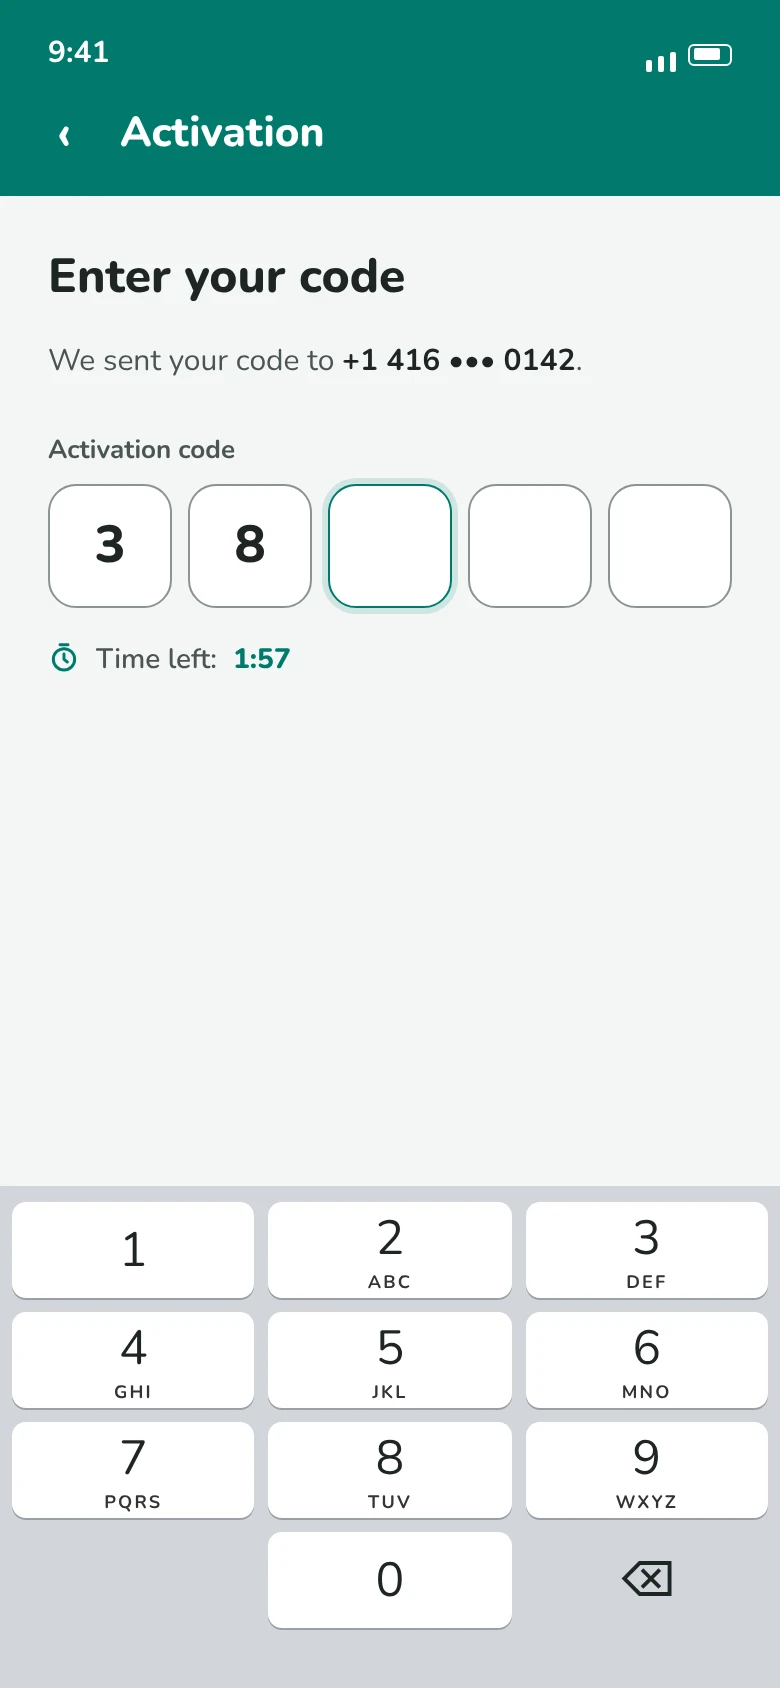
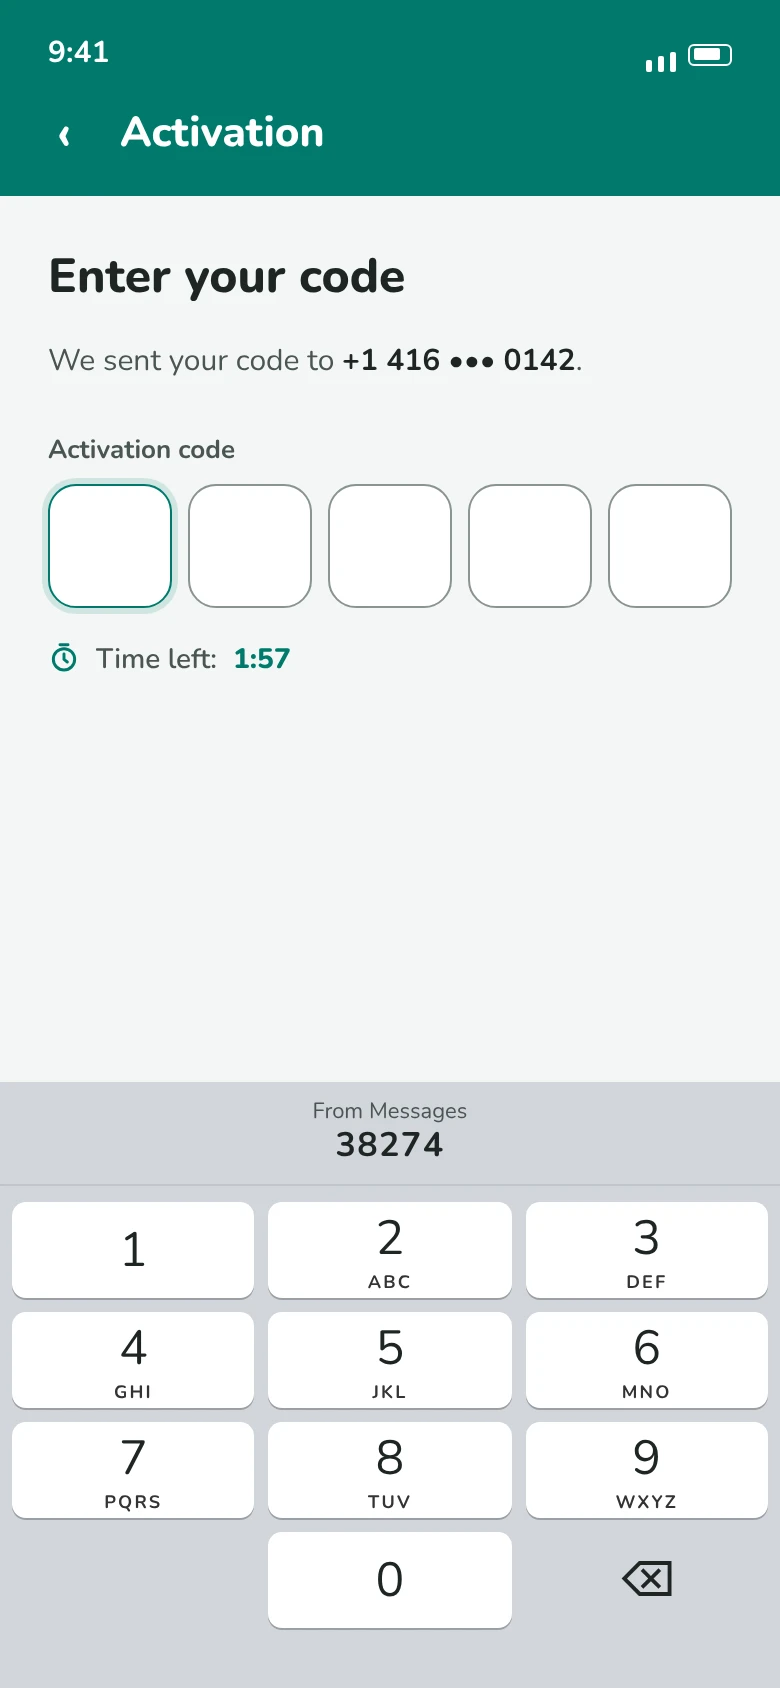
the sms design has improved

diff --git a/otp-authenticator.html b/otp-authenticator.html
@@ -173,7 +173,7 @@
         .pt-box { height: 56px; border-radius: 14px; background: #fff; border: 1.5px solid #8A9492; display: flex; align-items: center; padding: 0 16px; font: inherit; font-size: 18px; font-weight: 700; color: #1D2523; }
         .pt-cc { width: 72px; justify-content: center; }
         .pt-num { flex: 1; min-width: 0; letter-spacing: .04em; }
-        .pt-num:focus { outline: none; border-color: #00796B; box-shadow: 0 0 0 3px rgba(0,121,107,.2); }
+        .pt-num:focus, .pt-num:focus-visible { outline: none; border: 2px solid #00796B; box-shadow: 0 0 0 3px rgba(0,121,107,.22); }
         .pt-hint { font-size: 13px; color: #5F6967; margin: 0; }
         .pt-btn { margin-top: auto; margin-bottom: 24px; height: 54px; border: 0; border-radius: 14px; background: #00796B; color: #fff; font: inherit; font-size: 16px; font-weight: 800; cursor: pointer; }
         .pt-btn:active { background: #005A50; }
@@ -185,12 +185,20 @@
         .pt-err { min-height: 20px; font-size: 13px; font-weight: 700; color: #B3261E; margin: 0 0 4px; }
         .pt-timer { font-size: 14px; color: #4A5553; font-weight: 600; margin: 0; }
         .pt-timer b { color: #00796B; }
-        .pt-keys { margin: auto -18px -24px; background: #D1D5DB; padding: 8px 6px 26px; display: grid; grid-template-columns: repeat(3, 1fr); gap: 7px; }
+        .pt-kbd { margin: auto -24px -24px; background: #D1D5DB; }
+        .pt-suggest-bar { height: 52px; display: flex; align-items: center; justify-content: center; border-bottom: 1px solid #BFC4CB; }
+        .pt-suggest { visibility: hidden; display: flex; flex-direction: column; align-items: center; border: 0; background: transparent; font: inherit; color: #1D2523; cursor: pointer; padding: 4px 24px; border-radius: 8px; line-height: 1.15; }
+        .pt-suggest small { font-size: 11px; color: #4A5553; } .pt-suggest b { font-size: 17px; letter-spacing: .04em; }
+        .pt-suggest.is-in { visibility: visible; }
+        .pt-suggest:active { background: #B9BEC6; }
+        .pt-keys { background: #D1D5DB; padding: 8px 6px 26px; display: grid; grid-template-columns: repeat(3, 1fr); gap: 7px; }
         .pt-keys button { height: 48px; border: 0; border-radius: 7px; background: #fff; box-shadow: 0 1px 0 rgba(0,0,0,.25); font: inherit; font-size: 24px; color: #1D2523; cursor: pointer; }
         .pt-keys button:active { background: #B9BEC6; }
         .pt-keys .pt-k0 { grid-column: 2; }
         .pt-keys .pt-del { background: transparent; box-shadow: none; font-size: 20px; }
-        .pt-sms { position: absolute; left: 10px; right: 10px; top: 52px; z-index: 5; text-align: left; border: 0; border-radius: 20px; padding: 14px 16px; background: rgba(250,250,250,.98); box-shadow: 0 10px 30px rgba(0,0,0,.2); font: inherit; font-size: 15px; color: #1D2523; cursor: pointer; transform: translateY(-160px); transition: transform .35s ease; }
+        .pt-sms { position: absolute; left: 10px; right: 10px; top: 52px; z-index: 5; display: flex; gap: 12px; align-items: flex-start; border-radius: 22px; padding: 12px 14px; background: rgba(245,245,247,.97); box-shadow: 0 10px 30px rgba(0,0,0,.18); font-size: 15px; line-height: 1.3; color: #1D2523; transform: translateY(-170px); transition: transform .35s ease; }
+        .pt-sms__ic { width: 38px; height: 38px; flex: none; border-radius: 9px; background: #34C759; display: grid; place-items: center; }
+        .pt-sms em { font-style: normal; font-size: 13px; color: #5F6967; float: right; }
         .pt-sms.is-in { transform: none; }
         .pt-home { align-items: center; padding-top: 18px; }
         .pt-card { width: 300px; height: 170px; border-radius: 18px; padding: 18px 20px; color: #fff; background: linear-gradient(135deg,#0B8E7E,#00796B 45%,#00594F); display: flex; flex-direction: column; box-shadow: 0 10px 22px rgba(0,89,79,.28); }
@@ -214,7 +222,7 @@
         .pt-ring.is-urgent .pt-arc { stroke: #B3261E; } .pt-ring.is-urgent .pt-track { stroke: #F6DEDC; } .pt-ring.is-urgent .pt-n b, .pt-ring.is-urgent .pt-n small { color: #B3261E; }
         .pt-ring.is-urgent.is-motion { animation: mt-pulse 1s ease-in-out infinite; }
         @media (prefers-reduced-motion: reduce) { .pt-ring.is-urgent.is-motion { animation: mt-beat 1s ease-in-out infinite; } .pt-sms, .pt-arc { transition: none; } }
-        #pt button:focus-visible, #pt input:focus-visible, .pt-restart:focus-visible { outline: 3px solid #1D2523; outline-offset: 2px; }
+        #pt button:focus-visible, .pt-restart:focus-visible { outline: 3px solid #1D2523; outline-offset: 2px; }
         .pt-tabs { display: flex; background: #fff; border-top: 1px solid #E3E9E8; padding: 14px 8px 30px; }
         .pt-tabs span { flex: 1; text-align: center; font-size: 12px; font-weight: 700; color: #5F6967; }
         .pt-tabs span.is-on { color: #00796B; }
@@ -486,7 +494,7 @@
                     <p>People enter their phone number. The app sends an activation code to it by SMS.</p>
                 </article>
                 <article class="card">
-                    <div class="phone"><img src="images/otp-mt-activation.webp" alt="Activation screen with five code boxes, two filled, and a timer showing 1:57 left" loading="lazy" width="390" height="844" /></div>
+                    <div class="phone"><img src="images/otp-mt-activation.webp" alt="Activation screen with five empty code boxes, a timer showing 1:57 left, and the code 38274 from Messages above the keyboard" loading="lazy" width="390" height="844" /></div>
                     <span class="step-num">Step 2</span>
                     <h3>Activate</h3>
                     <p>They type the code from the SMS before the timer runs out.</p>
@@ -692,7 +700,7 @@
                         </div>
                         <!-- 2 Activation -->
                         <div class="pt-scr" data-scr="2">
-                            <button type="button" class="pt-sms" id="pt-sms" aria-label="New SMS from Maple Trust: your activation code is 38274. Tap to fill it in."><b>Messages</b> &middot; now<br /><strong>Maple Trust:</strong> your activation code is 38274</button>
+                            <div class="pt-sms" id="pt-sms" aria-hidden="true"><span class="pt-sms__ic"><svg width="20" height="20" viewBox="0 0 24 24" fill="#fff"><path d="M12 3C6.5 3 2 6.8 2 11.5c0 2.6 1.4 4.9 3.6 6.5L5 21l3.6-2c1.1.3 2.2.5 3.4.5 5.5 0 10-3.8 10-8.5S17.5 3 12 3z"/></svg></span><span><b>Messages</b> <em>now</em><br /><strong>Maple Trust:</strong> your activation code is 38274</span></div>
                             <div class="pt-bar"><div class="pt-status"><span>9:41</span></div><div class="pt-title"><button type="button" class="pt-back" data-go="1" aria-label="Back">&lsaquo;</button>Activation</div></div>
                             <div class="pt-body">
                                 <h3 class="pt-h">Enter your code</h3>
@@ -701,7 +709,10 @@
                                 <div class="pt-digits" id="pt-digits" role="group" aria-labelledby="pt-code-label"></div>
                                 <p class="pt-err" id="pt-err" role="alert"></p>
                                 <p class="pt-timer">Time left: <b id="pt-timer">1:57</b></p>
-                                <div class="pt-keys" id="pt-keys"></div>
+                                <div class="pt-kbd">
+                                    <div class="pt-suggest-bar"><button type="button" class="pt-suggest" id="pt-suggest" aria-label="Fill in code 38274 from Messages"><small>From Messages</small><b>38274</b></button></div>
+                                    <div class="pt-keys" id="pt-keys"></div>
+                                </div>
                             </div>
                         </div>
                         <!-- 3 Home -->
@@ -727,7 +738,7 @@
                 <div class="pt-side">
                     <ol class="pt-steps">
                         <li data-step="1" class="is-on">Tap <b>Confirm</b> to get your SMS.</li>
-                        <li data-step="2">Tap the <b>SMS</b> to fill the code, or type 38274.</li>
+                        <li data-step="2">Tap the code <b>above the keyboard</b> to fill it in, or type 38274.</li>
                         <li data-step="3">Switch passwords, copy a code, and watch the ring turn red and pulse at 5 seconds.</li>
                     </ol>
                     <p class="pt-note">Codes here start at 20 seconds, so you don&rsquo;t wait a full minute.</p>
@@ -846,17 +857,17 @@
         var pt = document.getElementById('pt'); if (!pt) return;
         var CODE = '38274', START = 20, PERIOD = 60, C = 364.4;
         var live = document.getElementById('pt-live'), steps = document.querySelectorAll('.pt-steps li');
-        var digits = document.getElementById('pt-digits'), err = document.getElementById('pt-err'), sms = document.getElementById('pt-sms');
+        var digits = document.getElementById('pt-digits'), err = document.getElementById('pt-err'), sms = document.getElementById('pt-sms'), sug = document.getElementById('pt-suggest');
         var typed = '', tLeft = 117, tTimer = null, left = START, pw = 1, code = '', ring = null, rTimer = null;
         function say(t) { live.textContent = ''; setTimeout(function () { live.textContent = t; }, 50); }
         function step(n) { steps.forEach(function (li) { li.classList.toggle('is-on', +li.getAttribute('data-step') === n); }); }
         function show(n) {
             pt.querySelectorAll('.pt-scr').forEach(function (s) { s.classList.toggle('is-on', +s.getAttribute('data-scr') === n); });
-            step(n); clearInterval(tTimer); clearInterval(rTimer); sms.classList.remove('is-in');
+            step(n); clearInterval(tTimer); clearInterval(rTimer); sms.classList.remove('is-in'); sug.classList.remove('is-in'); clearTimeout(window.__ptHide);
             if (n === 2) {
                 typed = ''; drawDigits(); err.textContent = ''; tLeft = 117; drawTimer();
                 tTimer = setInterval(function () { if (tLeft > 0) { tLeft--; drawTimer(); } }, 1000);
-                setTimeout(function () { sms.classList.add('is-in'); say('New SMS: your activation code is 38274'); }, 700);
+                setTimeout(function () { sms.classList.add('is-in'); sug.classList.add('is-in'); say('Code 38274 from Messages is ready above the keyboard'); window.__ptHide = setTimeout(function () { sms.classList.remove('is-in'); }, 3200); }, 700);
                 say('Enter your code');
             }
             if (n === 3) { left = START; newCode(); drawRing(true); rTimer = setInterval(tick, 1000); say('Activated. Your Password 1 is ready.'); }
@@ -888,7 +899,7 @@
             if (/^[0-9]$/.test(e.key)) { press(e.key); e.preventDefault(); }
             if (e.key === 'Backspace') { press('del'); e.preventDefault(); }
         });
-        sms.addEventListener('click', function () { typed = ''; err.textContent = ''; digits.classList.remove('is-error'); CODE.split('').forEach(function (d, i) { setTimeout(function () { press(d); }, 120 * i); }); });
+        sug.addEventListener('click', function () { err.textContent = ''; digits.classList.remove('is-error'); typed = CODE.slice(0, 4); press(CODE[4]); sug.classList.remove('is-in'); });
         pt.querySelectorAll('[data-go]').forEach(function (b) { b.addEventListener('click', function () { show(+b.getAttribute('data-go')); }); });
         // home
         ring = document.getElementById('pt-ring');
